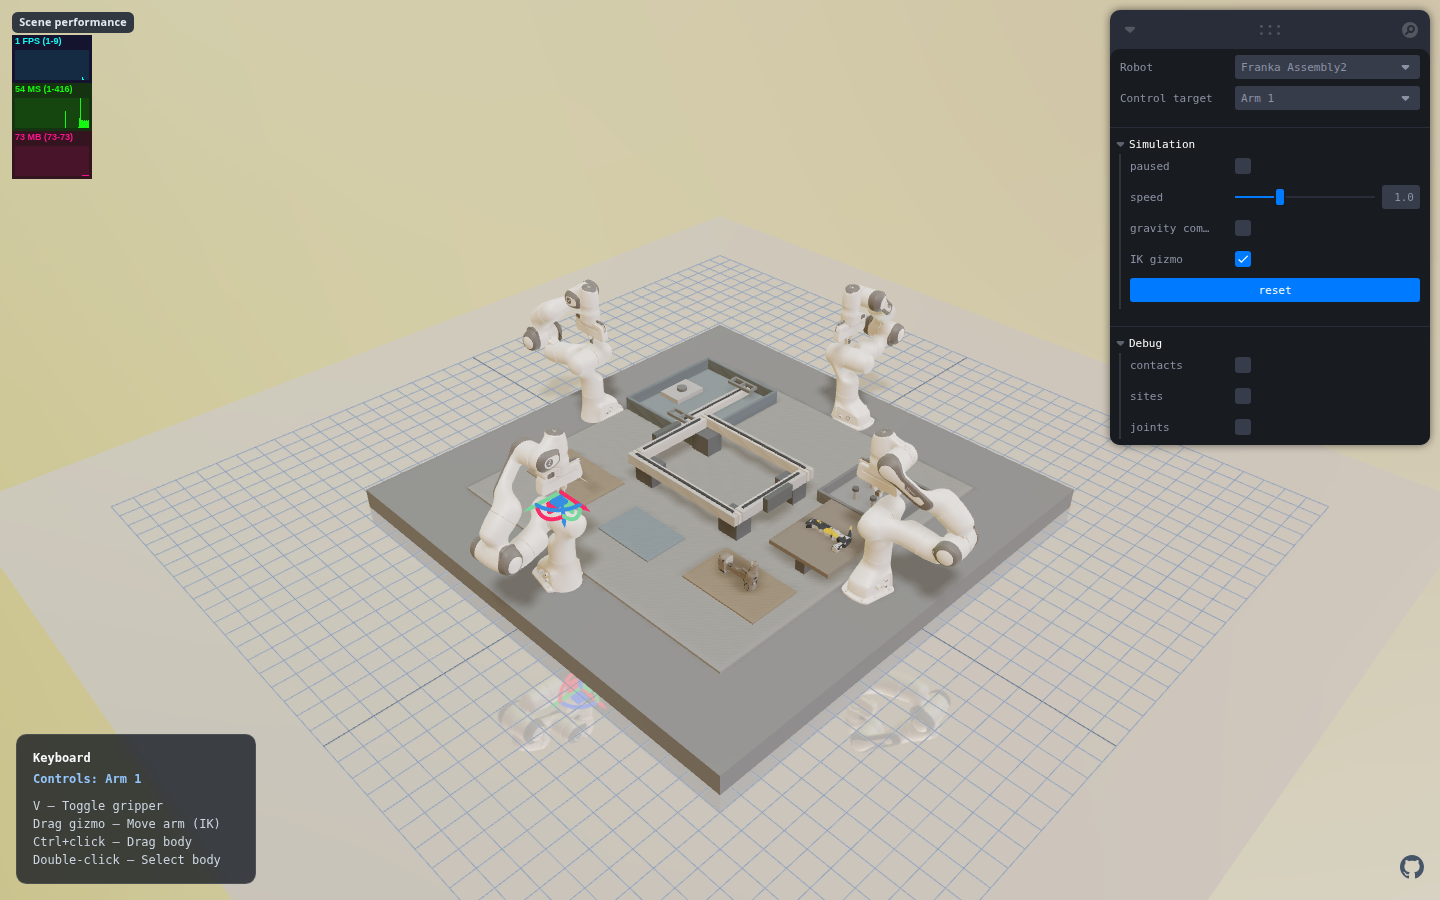
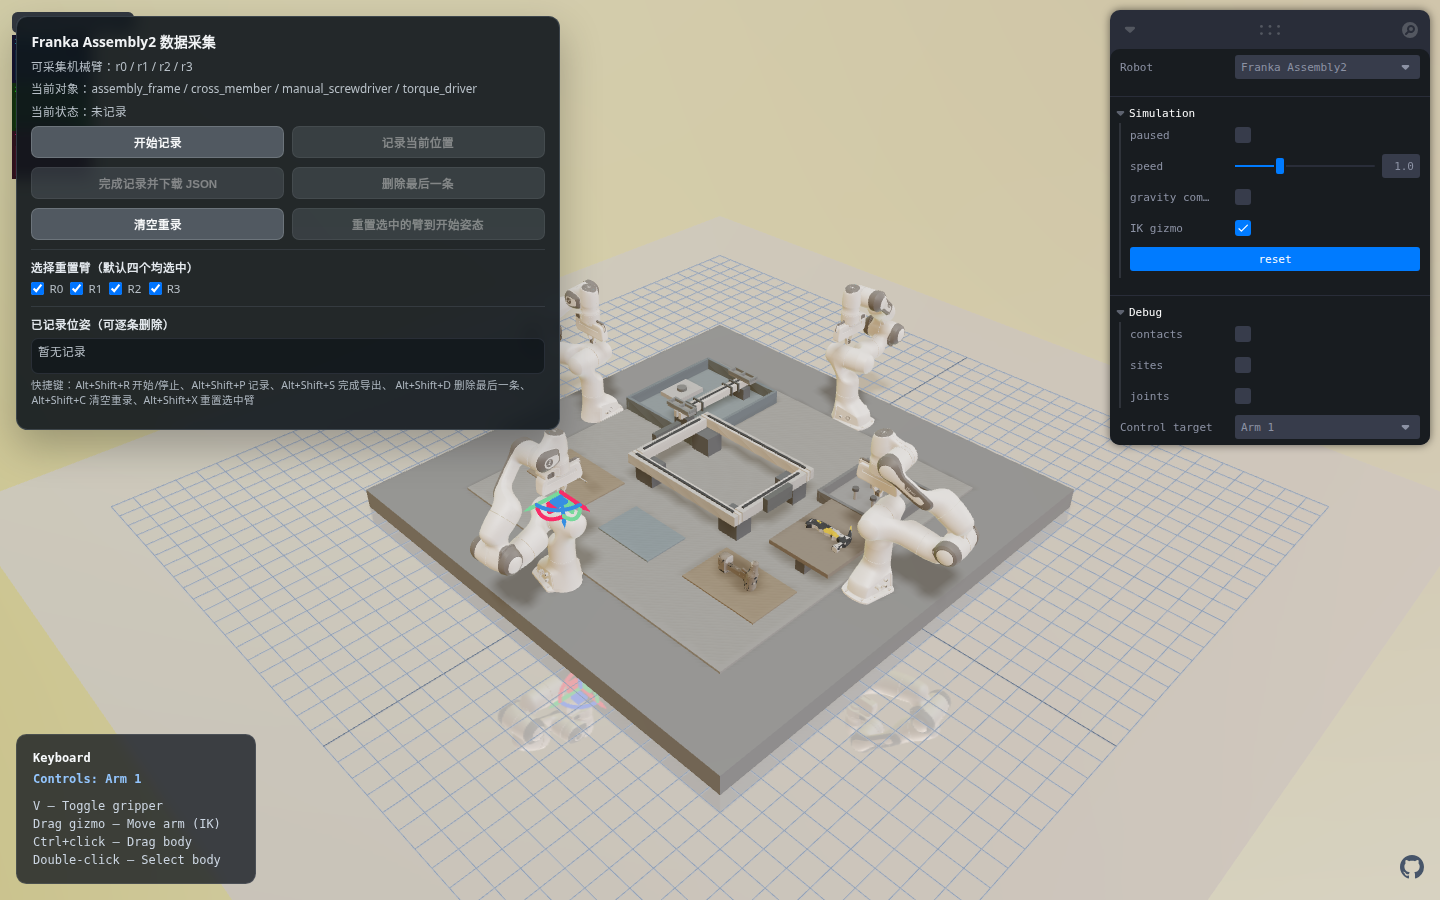
fix(assembly2): restore scene and recorder

diff --git a/src/FrankaAssembly2DataRecorderPanel.tsx b/src/FrankaAssembly2DataRecorderPanel.tsx
@@ -1,4 +1,5 @@
 import { useCallback, useEffect, useRef, useState, type ChangeEvent } from 'react';
+import { Html } from '@react-three/drei';
 import * as THREE from 'three';
 import {
   findActuatorByName,
@@ -612,7 +613,12 @@ export function FrankaAssembly2DataRecorderPanel({
   }, [clearSession, resetGeneration]);
 
   return (
-    <section className="franka-recorder-panel" aria-label="Franka Assembly2 示教采集">
+    <Html
+      fullscreen
+      style={{ pointerEvents: 'none' }}
+      calculatePosition={(_object, _camera, size) => [size.width / 2, size.height / 2]}
+    >
+      <section className="franka-recorder-panel" aria-label="Franka Assembly2 示教采集">
       <div className="franka-recorder-panel__title">Franka Assembly2 数据采集</div>
       <div className="franka-recorder-panel__line">
         可采集机械臂：{armProfiles.length > 0 ? armProfiles.map((profile) => profile.armKey).join(' / ') : '未解析'}
@@ -690,6 +696,7 @@ export function FrankaAssembly2DataRecorderPanel({
         快捷键：Alt+Shift+R 开始/停止、Alt+Shift+P 记录、Alt+Shift+S 完成导出、
         Alt+Shift+D 删除最后一条、Alt+Shift+C 清空重录、Alt+Shift+X 重置选中臂
       </div>
-    </section>
+      </section>
+    </Html>
   );
 }

diff --git a/src/styles.css b/src/styles.css
@@ -243,7 +243,7 @@
 }
 
 .franka-recorder-panel {
-  position: fixed;
+  position: absolute;
   top: 1rem;
   left: 1rem;
   z-index: 100;

diff --git a/project/standup_log.md b/project/standup_log.md
@@ -59,6 +59,10 @@
   - Fixed: Replaced the out-of-scope Assembly2 recorder reference `entry.controlTargets` with the scene catalog lookup `robots[robotKey].controlTargets` inside `SceneChildren`.
   - Verified: The original `TS2304: Cannot find name 'entry'` reproduced before the fix; afterwards `tsc --noEmit`, all 164 tests, and the Node 22 Pages production build passed.
 - 2026-08-28
+  - What: Reproduced the deployed Assembly2 blank page and captured the runtime error `R3F: Div is not part of the THREE namespace`.
+  - Fixed: Kept recorder state and MuJoCo hooks inside the simulation provider while routing only its HTML through Drei `Html`; anchored the overlay to the viewport and preserved canvas pointer input outside the panel.
+  - Verified: The pre-fix browser smoke test stalled at `sceneStatus=loading`; the fixed Pages production bundle loaded 4 physical instances / 66 bodies, exposed all four recorder arms, and passed the isolated 164-test suite, TypeScript check, and production build.
+- 2026-08-28
   - What: Reworked Assembly1's cross-member interfaces and reassigned Arm 2 from the torque driver to the double-face hammer across Steps 1–4.
   - Fixed: Removed the solid gap-filling mounts, added hollow round/square frames whose walls touch the beam, cut two true beam recesses while retaining four side stops, restored the first fastener to the same round form as the other three, and added hammer stage/strike/recover phases.
   - Verified: Focused contracts passed 48/48; the Step 4 IK solver matched all recorded targets below 0.6 mm and 0.14 degrees; MuJoCo compiled the 66-body/451-geom scene; the unsupported hammer hold retained 33 contacts with about 31.35 N and 20.9 mm height loss.
